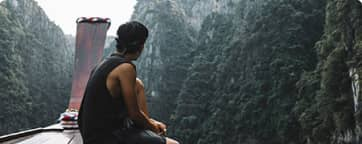
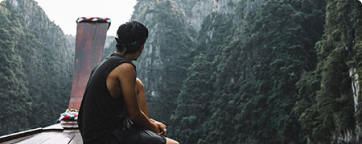
Оптимизировал картинки

diff --git a/service.html b/service.html
@@ -20,7 +20,7 @@
             <header class="header header__comment">
                 <div class="container header__container">
                     <a href="./about.html" class="logo">
-                        <img src="./icon/about/logo.png" class="logo__img" alt="Air-Asia.Авторские туры по Азии.">
+                        <img src="./icon/about/logo.png" class="logo__img" alt="Air-Asia. Авторские туры по Азии.">
                     </a>
                     <nav class="breadcrumbs">
                         <ul class="breadcrumbs__list">
@@ -76,7 +76,7 @@
                             <ul class="service__list">
                                 <li class="service__item">
                                     <div class="service__image">
-                                        <img src="./img/service/waterfall.png" alt="" class="service__image-pic">
+                                        <img src="./img/service/waterfall.jpg" alt="Водопад Янг-бей" class="service__image-pic">
                                     </div>
                                     <div class="service__desc">
                                         <div class="service__title">
@@ -94,7 +94,7 @@
                                 </li>
                                 <li class="service__item">
                                     <div class="service__image">
-                                        <img src="./img/service/monkeys.png" alt="" class="service__image-pic">
+                                        <img src="./img/service/monkeys.jpg" alt="Остров обезьян" class="service__image-pic">
                                     </div>
                                     <div class="service__desc">
                                         <div class="service__title">
@@ -155,23 +155,23 @@
                         </div>
                         <ul class="partners__list">
                             <li class="partners__row">
-                                <a href="#" class="partners__link"><img src="./icon/service/pobeda.png" alt=""
+                                <a href="#" class="partners__link"><img src="./icon/service/pobeda.png" alt="Наши партнеры Победа"
                                         class="partners__icon"></a>
-                                <a href="#" class="partners__link"><img src="./icon/service/s7.png" alt=""
+                                <a href="#" class="partners__link"><img src="./icon/service/s7.png" alt="Наши партнеры s7 Airlines"
                                         class="partners__icon"></a>
-                                <a href="#" class="partners__link"><img src="./icon/service/lets-fly.png" alt=""
+                                <a href="#" class="partners__link"><img src="./icon/service/lets-fly.png" alt="Наши партнеры Слетать.ру"
                                         class="partners__icon"></a>
-                                <a href="#" class="partners__link"><img src="./icon/service/lufthansa.png" alt=""
+                                <a href="#" class="partners__link"><img src="./icon/service/lufthansa.png" alt="Наши партнеры lufthansa"
                                         class="partners__icon"></a>
                             </li>
                             <li class="partners__row">
-                                <a href="#" class="partners__link"><img src="./icon/service/airbaltic.png" alt=""
+                                <a href="#" class="partners__link"><img src="./icon/service/airbaltic.png" alt="Наши партнеры airBaltic"
                                         class="partners__icon"></a>
-                                <a href="#" class="partners__link"><img src="./icon/service/pegasus.png" alt=""
+                                <a href="#" class="partners__link"><img src="./icon/service/pegasus.png" alt="Наши партнеры PEGASUS"
                                         class="partners__icon"></a>
-                                <a href="#" class="partners__link"><img src="./icon/service/ural.png" alt=""
+                                <a href="#" class="partners__link"><img src="./icon/service/ural.png" alt="Наши партнеры URALAIRLINES"
                                         class="partners__icon"></a>
-                                <a href="#" class="partners__link"><img src="./icon/service/pegas.png" alt=""
+                                <a href="#" class="partners__link"><img src="./icon/service/pegas.png" alt="Наши партнеры PEGAS"
                                         class="partners__icon"></a>
                             </li>
                         </ul>

diff --git a/comment.html b/comment.html
@@ -20,7 +20,7 @@
             <header class="header header__comment">
                 <div class="container header__container">
                     <a href="./about.html" class="logo">
-                        <img src="./icon/about/logo.png" class="logo__img" alt="Air-Asia.Авторские туры по Азии.">
+                        <img src="./icon/about/logo.png" class="logo__img" alt="Air-Asia. Авторские туры по Азии.">
                     </a>
                     <nav class="breadcrumbs">
                         <ul class="breadcrumbs__list">
@@ -219,15 +219,14 @@
                 </div>
                 <!--Подберем тур-->
                 <div class="will-select">
-                    <div class="will-select__background">
+                    <!--<div class="will-select__background">
                         <img class="will-select__background-pic" src="" alt="">
-                    </div>
+                    </div>-->
                     <div class="container will-select__container">
-                        <div class="will-select__block">
+                        <!--<div class="will-select__block">   </div>-->
                             <h2 class="will-select__text">
                                 Подберем тур по вашим пожеланиям
                             </h2>
-                        </div>
                     </div>
                 </div>
                 <!--form-->
@@ -300,7 +299,7 @@
         <footer class="footer footer__comment">
             <div class="container footer__container">
                 <a href="./about.html" class="logo">
-                    <img src="./icon/about/logo.png" class="logo__img" alt="Air-Asia.Авторские туры по Азии.">
+                    <img src="./icon/about/logo.png" class="logo__img" alt="Air-Asia. Авторские туры по Азии.">
                 </a>
                 <nav class="breadcrumbs">
                     <ul class="breadcrumbs__list">

diff --git a/about.html b/about.html
@@ -190,7 +190,7 @@
                     <!--Блок рыбатекст-->
                     <section class="about-us">
                         <div class="about-us__image-gates">
-                            <img class="about-us__image-gates-pic" src="./img/about/gates.jpg" alt="О нас. Мужчина около мотоцикла.">
+                            <img class="about-us__image-gates-pic" src="./img/about/gates.jpg" alt="О нас. Мотоциклист.">
                         </div>
                         <div class="about-us__desc">
                             <div class="about-us__image-mountains">

diff --git a/css/layout/base.css b/css/layout/base.css
@@ -135,5 +135,5 @@ hr {
     display: flex;
     flex-direction: column;
     justify-content: space-between;
-    background: url(../../../new-air-asia/img/comment/headline.png) center center / cover no-repeat;
+    background: url(../../../new-air-asia/img/comment/headline.jpg) center center / cover no-repeat;
 }
